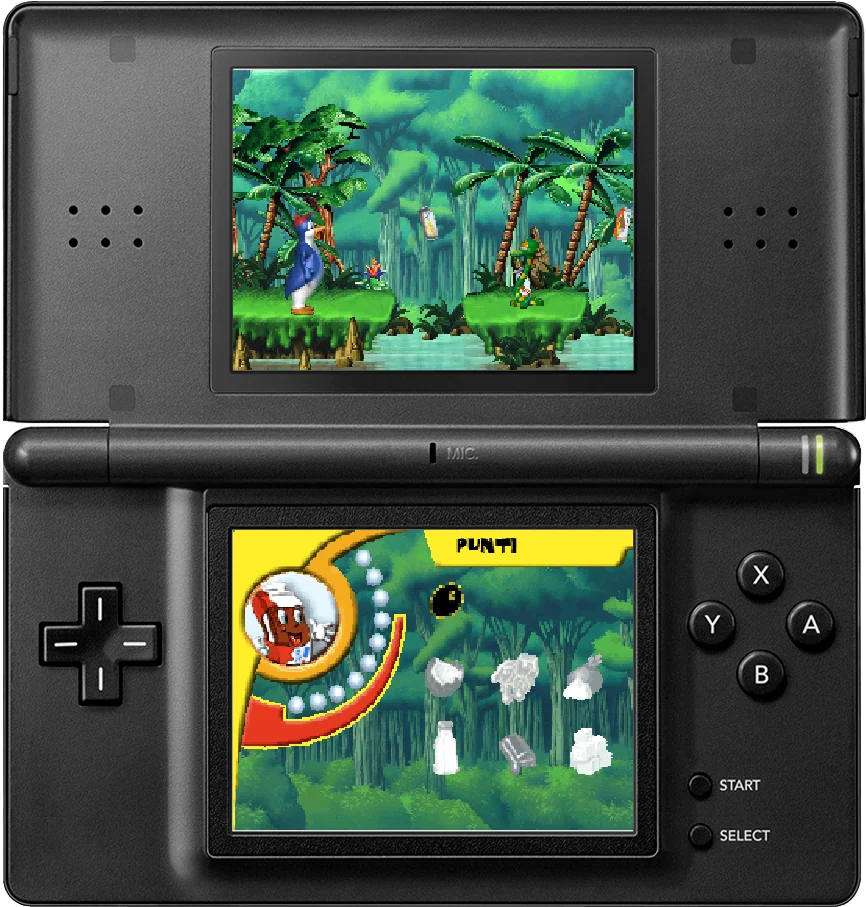
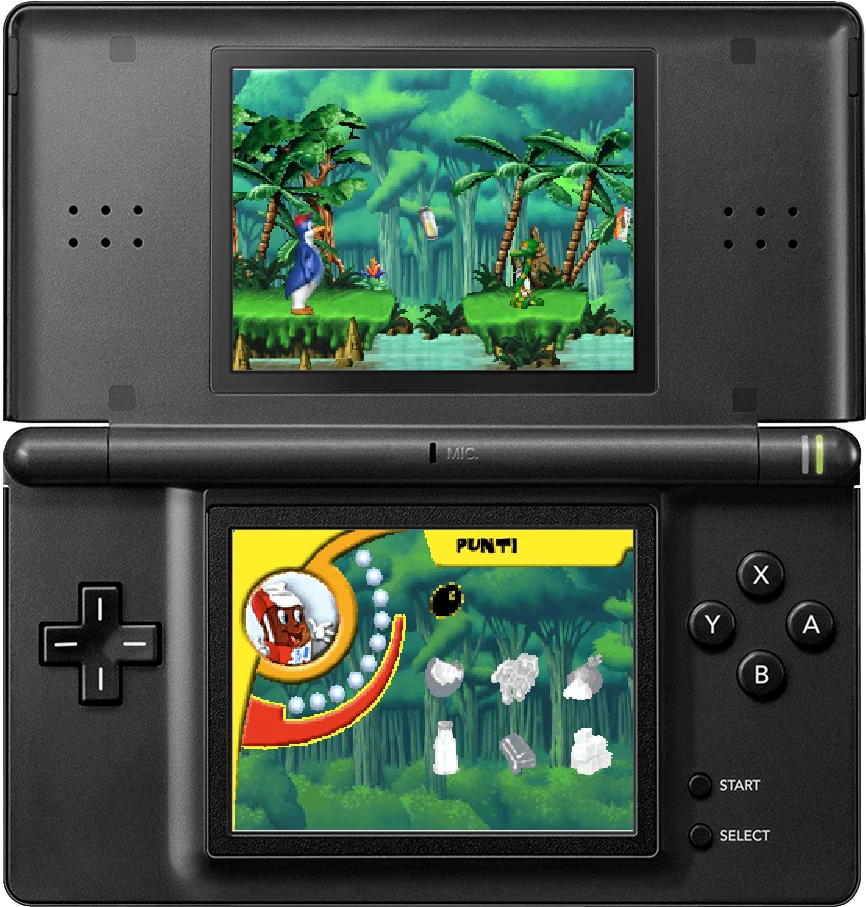
Resample DS artwork with Lanczos for 0.9.1
All artwork downscaled for the DS now uses premultiplied Lanczos
resampling instead of nearest-pixel sampling: bottom-screen HUD and
backdrops, players, enemies, pickups, level scenery, scrolling and fixed
backgrounds, credits and highscore screens. One-bit transparency is
restored at half coverage, and sprite frames are reduced back to the
4/8-bit palette class their old rasters had, so GPU page formats, tile
counts and ROM size stay essentially unchanged.

Also fix asset assembly, which expected 28 conversion steps while the
pipeline runs 29, so a fresh source build stopped before the ROM.
Verifiers that recomputed point sampling now check the new filter, and
the README screenshot is recaptured from the 0.9.1 ROM.

diff --git a/tools/player_scaled_build.py b/tools/player_scaled_build.py
@@ -6,6 +6,7 @@ import hashlib
 import json
 import struct
 import numpy as np
+from PIL import Image
 from tile_storage import packet
 from decoded_assets import DecodedAssets
 
@@ -17,11 +18,34 @@ def raster(rgb,fx,fy,facing):
     x=ceil_div(16*left-25,50);y=ceil_div(16*fy-25,50)
     width=max(1,ceil_div(16*(left+w)-25,50)-x)
     height=max(1,ceil_div(16*(fy+h)-25,50)-y)
+    # Same 8/25 lattice as centered sampling; premultiplied Lanczos replaces the
+    # single source tap and the 1-bit alpha is restored at half coverage.
+    pad=12;rgba=np.zeros((h+2*pad,w+2*pad,4),dtype=np.uint8);inner=rgba[pad:pad+h,pad:pad+w]
+    for channel,shift in enumerate((0,5,10)):inner[...,channel]=((source>>shift)&31)*255//31
+    inner[...,3]=np.where(source&0x8000,255,0)
+    box=((x*25/8)-left+pad,(y*25/8)-fy+pad,((x+width)*25/8)-left+pad,((y+height)*25/8)-fy+pad)
+    a=np.asarray(Image.fromarray(rgba,'RGBA').convert('RGBa').resize((width,height),Image.Resampling.LANCZOS,box=box),dtype=np.float64)
+    c=np.clip(np.rint(a[...,:3]*31/np.maximum(a[...,3:],1)),0,31).astype(np.uint16)
+    pixels=np.where(a[...,3]>=128,c[...,0]|(c[...,1]<<5)|(c[...,2]<<10)|0x8000,0).astype('<u2')
+    # Filtering adds edge colors. Keep the frame (or, for direct-color frames,
+    # each 32-row GPU strip) within the 4/8-bit palette class its
+    # centered-sample raster had, so page formats never grow.
     xs=((2*(x+np.arange(width))+1)*25)//16-left
     ys=((2*(y+np.arange(height))+1)*25)//16-fy
     valid=(ys[:,None]>=0)&(ys[:,None]<h)&(xs[None,:]>=0)&(xs[None,:]<w)
-    pixels=np.where(valid,source[np.clip(ys,0,h-1)[:,None],np.clip(xs,0,w-1)[None,:]],0).astype('<u2')
+    nearest=np.where(valid,source[np.clip(ys,0,h-1)[:,None],np.clip(xs,0,w-1)[None,:]],0)
+    bands=[(0,height)] if len(np.unique(nearest[nearest!=0]))<=255 else [(top,top+32) for top in range(0,height,32)]
+    for top,end in bands:
+        band=pixels[top:end];before=len(np.unique(nearest[top:end][nearest[top:end]!=0]))
+        limit=15 if before<=15 else 255 if before<=255 else None
+        if limit and len(np.unique(band[band!=0]))>limit:band[band!=0]=quantize555(band[band!=0],limit)
     return pixels,x,y
+
+def quantize555(words,count):
+    rgb=np.stack([((words>>shift)&31)*255//31 for shift in (0,5,10)],axis=-1).astype(np.uint8)
+    q=Image.fromarray(rgb.reshape(-1,1,3),'RGB').quantize(colors=count,method=Image.Quantize.MEDIANCUT,dither=Image.Dither.NONE)
+    c=(np.asarray(q.convert('RGB'),dtype=np.uint16).reshape(-1,3)*31+127)//255
+    return c[:,0]|(c[:,1]<<5)|(c[:,2]<<10)|0x8000
 
 def build(decoded,out):
     out.mkdir(parents=True,exist_ok=False)
@@ -48,7 +72,7 @@ def build(decoded,out):
                          'bytes':len(data),'sha256':hashlib.sha256(data).hexdigest(),
                          'max_frame_bytes':max_pixels*2,'source_pixels':source_pixels,
                          'stored_packets':len(lookup),'packet_modes':dict(modes),
-                         'scaling':'Exact uniform8/25centered nearest sampling around animation origin; both facings baked',
+                         'scaling':'Uniform8/25 premultiplied Lanczos around animation origin, 1-bit alpha at half coverage; both facings baked',
                          'color':'Adaptive4/8-bit exact palettes or RGB555; no color quantization'})
     (out/'manifest.json').write_text(json.dumps(manifest,indent=2)+'\n')
     print(json.dumps(manifest))

diff --git a/tools/hud_build.py b/tools/hud_build.py
@@ -5,6 +5,7 @@ full-screen HUD format is not generated.
 """
 from pathlib import Path
 import argparse,json,struct
+import numpy as np
 from PIL import Image
 from decoded_assets import DecodedAssets
 
@@ -32,14 +33,18 @@ def build(decoded,output):
     bottom_data.extend(struct.pack('<'+'H'*len(run),*run));cursor=xx
    bottom_data.extend(struct.pack('<HH',0,0))
   bottom_manifest.append(dict(resource=rid,frame=frame,width=w,height=h,x=left,y=top))
+ def lanczos(im,size,box=None):
+  # Premultiplied Lanczos keeps thin outlines instead of dropping source rows;
+  # the 1-bit patch alpha is restored with a half-coverage cutoff.
+  a=np.asarray(im.convert('RGBa').resize(size,Image.Resampling.LANCZOS,box=box),dtype=np.float64);alpha=a[...,3:]
+  rgb=np.clip(a[...,:3]*255/np.maximum(alpha,1),0,255)
+  return Image.fromarray(np.concatenate((rgb,np.where(alpha>=128,255,0)),axis=2).round().astype('u1'),'RGBA')
  def sample_positioned(im,x,y,scale,origin):
-  # Center sampling on a shared cluster lattice keeps overlapping frame borders aligned.
+  # Filter on a shared cluster lattice keeps overlapping frame borders aligned.
   left=round(x*scale);top=round(y*scale);right=round((x+im.width)*scale);end=round((y+im.height)*scale)
-  out=Image.new('RGBA',(right-left,end-top));ip=im.load();op=out.load()
-  for yy in range(out.height):
-   sy=min(im.height-1,max(0,int((top+yy+.5)/scale)-y))
-   for xx in range(out.width):
-    sx=min(im.width-1,max(0,int((left+xx+.5)/scale)-x));op[xx,yy]=ip[sx,sy]
+  if scale==1:return im,left+origin[0],top+origin[1]
+  pad=4;padded=Image.new('RGBA',(im.width+2*pad,im.height+2*pad));padded.paste(im,(pad,pad))
+  out=lanczos(padded,(right-left,end-top),(left/scale-x+pad,top/scale-y+pad,right/scale-x+pad,end/scale-y+pad))
   return out,left+origin[0],top+origin[1]
  for rid,name in enumerate(names):
   for f in inv[base+name]['frames']:
@@ -60,7 +65,7 @@ def build(decoded,output):
    out,left,top=sample_positioned(im,x,y,scale,origin);bottom_patch(rid,f['index'],out,left,top)
  baseim=assets.image(inv[base+names[0]]['frames'][0])
  # Original PUNTI tab, cropped from the long header. No new text or colors.
- label=baseim.crop((342,0,520,32)).resize((134,24),Image.Resampling.NEAREST)
+ label=lanczos(baseim.crop((342,0,520,32)),(134,24))
  bottom_patch(15,0,label,122,0)
  target=output/'hud_bottom.bin';target.write_bytes(b'KFH2'+struct.pack('<II',len(bottom_records),len(bottom_data)//2)+b''.join(bottom_records)+bottom_data)
  (output/'hud-manifest.json').write_text(json.dumps(dict(bytes=target.stat().st_size,pixel_bytes=len(bottom_data),frames=bottom_manifest),indent=2)+'\n')

diff --git a/tools/verify_highscore_ui.py b/tools/verify_highscore_ui.py
@@ -2,6 +2,7 @@
 from pathlib import Path
 import ctypes as C
 import argparse,json,random,struct,subprocess,tempfile,sys
+import numpy as np
 from PIL import Image
 from unicorn import UC_HOOK_CODE
 from unicorn.x86_const import UC_X86_REG_EAX,UC_X86_REG_ECX,UC_X86_REG_ESP,UC_X86_REG_ESI
@@ -99,13 +100,17 @@ with tempfile.TemporaryDirectory(prefix='kinder-highscore-')as tmp:
    for i,name in enumerate(native.names):
     frames=native.inv[f'animation/interface/{name.lower()}.w01']['frames'];index=4 if i<4 and native.world_for_focus[i]==world else int(i==focus)
     f=frames[index];bg.alpha_composite(Image.open(ROOT/f['png']).convert('RGBA'),(f['x'],f['y']))
+   text=Image.new('RGBA',bg.size);background=np.asarray(bg.convert('RGB').resize((256,192),Image.Resampling.LANCZOS),dtype=np.uint16)
    native.draws.clear();u.mem_write(0x45f660,struct.pack('<I',world));u.reg_write(UC_X86_REG_ESP,0x220000);u.reg_write(UC_X86_REG_ESI,0x45f020);u.emu_start(0x403d2c,0x403deb,count=2000000)
    for command in native.draws:
-    f=native.font[command['frame']];bg.alpha_composite(Image.open(ROOT/f['png']).convert('RGBA'),(command['x'],command['y']))
-   pixels=bg.load();preview=Image.new('RGB',(256,192));pp=preview.load()
+    f=native.font[command['frame']];text.alpha_composite(Image.open(ROOT/f['png']).convert('RGBA'),(command['x'],command['y']))
+   # Lanczos backdrop; runtime glyphs stay on the centered 25/16 sample lattice.
+   pixels=text.load();preview=Image.new('RGB',(256,192));pp=preview.load()
    for y in range(192):
     for x in range(256):
-     r,g,b,_=pixels[((2*x+1)*25)//16,((2*y+1)*25)//16];expected=0x8000|(r>>3)|((g>>3)<<5)|((b>>3)<<10)
+     r,g,b,alpha=pixels[((2*x+1)*25)//16,((2*y+1)*25)//16]
+     if not alpha:r,g,b=map(int,background[y,x])
+     expected=0x8000|(r>>3)|((g>>3)<<5)|((b>>3)<<10)
      actual=framebuffer[y*256+x];assert actual==expected,(world,focus,x,y,hex(actual),hex(expected))
      pp[x,y]=((actual&31)*255//31,((actual>>5)&31)*255//31,((actual>>10)&31)*255//31)
    if focus==-1:preview.save(OUT/f'world{world}-scores.png')

diff --git a/tools/verify_entity_assets.py b/tools/verify_entity_assets.py
@@ -1,9 +1,14 @@
-"""Verify enemy/pickup packets, AOM animation ranges, geometry and map records."""
+"""Verify enemy/pickup packets, AOM animation ranges, geometry and map records.
+
+Raster bounds are derived independently from the original lattice; expected
+pixels come from the shared offline Lanczos raster filter.
+"""
 from pathlib import Path
 import argparse,ctypes as C,hashlib,json,struct,subprocess,tempfile
 import numpy as np
 from decoded_assets import DecodedAssets
 from native_resources import asset_source
+from player_scaled_build import raster
 
 ROOT=Path(__file__).resolve().parents[1]
 RANGES=('Left','Right','Up','Do','LeftUp','LeftDo','RightUp','RightDo','IdleLeft','IdleRight','IdleUp','IdleDo','IdleLeftUp','IdleLeftDo','IdleRightUp','IdleRightDo','Attack','Freeze','KO')
@@ -57,10 +62,7 @@ def main():
                         if not len(ix):ix=np.array([np.searchsorted(centers,left)])
                         if not len(iy):iy=np.array([np.searchsorted(centers,fy)])
                         assert(pw,ph,px,py)==(len(ix),len(iy),lattice[ix[0]],lattice[iy[0]])
-                        sx=centers[ix]-left;sy=centers[iy]-fy
-                        valid=(sx[None,:]>=0)&(sx[None,:]<w)&(sy[:,None]>=0)&(sy[:,None]<h)
-                        image=rgb[:,::-1] if mirror else rgb
-                        expected=np.where(valid,image[np.clip(sy,0,h-1)[:,None],np.clip(sx,0,w-1)[None,:]],0)
+                        expected=raster(rgb,fx-reference if mirror else fx,fy,not mirror)[0]
                         buffer=C.create_string_buffer(data[base+off:base+off+bytes_]);guard=np.full(pw*ph+32,0x1357,dtype='<u2')
                         assert codec.decode(buffer,bytes_,guard[16:].ctypes.data,pw*ph)
                         assert np.all(guard[:16]==0x1357)and np.all(guard[-16:]==0x1357)

diff --git a/tools/verify_character_assets.py b/tools/verify_character_assets.py
@@ -1,8 +1,9 @@
 """Check regenerated character/projectile data against original decoded artwork.
 
-Player packets are expanded by the runtime C codec. Expected sprite pixels and
-alignment are sampled from the original coordinate lattice, without a software
-scene renderer or a rendered framebuffer reference.
+Player packets are expanded by the runtime C codec. Sprite alignment and raster
+bounds are derived independently from the original coordinate lattice; expected
+pixels come from the shared offline Lanczos raster filter. No software scene
+renderer or rendered framebuffer reference is used.
 """
 from pathlib import Path
 import argparse
@@ -14,6 +15,7 @@ import subprocess
 import tempfile
 import numpy as np
 from decoded_assets import DecodedAssets
+from player_scaled_build import raster
 
 ROOT=Path(__file__).resolve().parents[1]
 
@@ -56,10 +58,7 @@ def main():
                     if not len(ix):ix=np.array([np.searchsorted(centers,left)])
                     if not len(iy):iy=np.array([np.searchsorted(centers,frame['y'])])
                     assert (pw,ph,px,py)==(len(ix),len(iy),lattice[ix[0]],lattice[iy[0]])
-                    sx=centers[ix]-left;sy=centers[iy]-frame['y']
-                    valid=(sx[None,:]>=0)&(sx[None,:]<w)&(sy[:,None]>=0)&(sy[:,None]<h)
-                    source_pixels=image if facing else image[:,::-1]
-                    expected=np.where(valid,source_pixels[np.clip(sy,0,h-1)[:,None],np.clip(sx,0,w-1)[None,:]],0)
+                    expected=raster(image,frame['x'],frame['y'],facing)[0]
                     packet=C.create_string_buffer(pack[payload+offset:payload+offset+size])
                     guard=np.full(pw*ph+32,0x1357,dtype='<u2')
                     assert codec.decode(packet,size,guard[16:].ctypes.data,pw*ph)

diff --git a/tools/background_scaled_build.py b/tools/background_scaled_build.py
@@ -1,4 +1,4 @@
-"""KFB4: offline uniform8/25 backgrounds with compressed256-pixel RGB555 rows."""
+"""KFB4: offline uniform8/25 Lanczos backgrounds with compressed256-pixel RGB555 rows."""
 from pathlib import Path
 import argparse,json,struct,numpy as np
 from decoded_assets import DecodedAssets
@@ -9,7 +9,7 @@ def build(decoded,out):
  for a in assets.inventory.values():
   if not a['source'].lower().startswith('maps/') or len(a.get('frames',[]))<5:continue
   im=assets.image(a['frames'][4]);assert im.width==800 and im.height>=600
-  rgb=np.asarray(im.crop((0,0,800,600)).resize((256,192),Image.Resampling.NEAREST),dtype=np.uint16)
+  rgb=np.asarray(im.crop((0,0,800,600)).resize((256,192),Image.Resampling.LANCZOS),dtype=np.uint16)
   assert np.all(rgb[:,:,3]==255)
   pixels=((rgb[:,:,0]>>3)|((rgb[:,:,1]>>3)<<5)|((rgb[:,:,2]>>3)<<10)|0x8000).astype('<u2')
   directory=[];payload=bytearray()
@@ -21,7 +21,7 @@ def build(decoded,out):
   for value in pixels.reshape(-1):checksum=((checksum^int(value))*16777619)&0xffffffff
   for _ in range(64*256):checksum=(checksum*16777619)&0xffffffff
   hashes[name]=checksum
-  rows.append({'source':a['source'],'file':name,'bytes':len(data),'format':'KFB4','cache_pixels':49152,'projection':'uniform8/25 centered nearest; half-speed native camera origin rounded once to DS pixels'})
+  rows.append({'source':a['source'],'file':name,'bytes':len(data),'format':'KFB4','cache_pixels':49152,'projection':'uniform8/25 Lanczos; half-speed native camera origin rounded once to DS pixels'})
  (out/'background-vram-hashes.json').write_text(json.dumps(hashes,indent=2)+'\n')
  (out/'background-manifest.json').write_text(json.dumps(rows,indent=2)+'\n');print(json.dumps({'files':len(rows),'bytes':sum(x['bytes']for x in rows)}))
 def main():

diff --git a/tools/credits_build.py b/tools/credits_build.py
@@ -1,4 +1,4 @@
-"""Pack all four original credit pages with exact centered nearest sampling.
+"""Pack all four original credit pages, Lanczos-resampled to the DS screen.
 256x192 preserves original800x600 proportions. No generated/recreated artwork.
 """
 from pathlib import Path
@@ -8,10 +8,7 @@ from PIL import Image
 parser=argparse.ArgumentParser(description=__doc__);parser.add_argument('--assets',type=Path,required=True);parser.add_argument('--output',type=Path,required=True);args=parser.parse_args();assets=DecodedAssets(args.assets);inventory=assets.inventory;out=args.output;out.mkdir(parents=True,exist_ok=False);records=[]
 for page in range(4):
  item=inventory[f'pics/credit{page+1}.bmp'];image=assets.image(item,'RGB');assert image.size==(800,600)
- values=[]
- for y in range(192):
-  for x in range(256):
-   r,g,b=image.getpixel((((2*x+1)*25)//16,((2*y+1)*25)//16));values.append((r>>3)|((g>>3)<<5)|((b>>3)<<10)|0x8000)
+ values=[(r>>3)|((g>>3)<<5)|((b>>3)<<10)|0x8000 for r,g,b in image.resize((256,192),Image.Resampling.LANCZOS).get_flattened_data()]
  data=struct.pack('<4sHH',b'KFC1',256,192)+struct.pack('<49152H',*values);path=out/f'{page}.bin';path.write_bytes(data)
  records.append({'page':page,'original':item['source'],'original_sha256':item['sha256'],'bytes':len(data),'sha256':hashlib.sha256(data).hexdigest()})
-(out/'credits-manifest.json').write_text(json.dumps({'pages':records,'sampling':'centered nearest25/16;256x192;RGB555'},indent=2)+'\n');print(json.dumps({'pages':4,'packed_bytes':sum(v['bytes']for v in records)}))
+(out/'credits-manifest.json').write_text(json.dumps({'pages':records,'sampling':'Lanczos;256x192;RGB555'},indent=2)+'\n');print(json.dumps({'pages':4,'packed_bytes':sum(v['bytes']for v in records)}))

diff --git a/tools/compile_scenery_tiles.py b/tools/compile_scenery_tiles.py
@@ -26,7 +26,6 @@ class Compiler:
   metadata=json.loads((self.maps/name/'00.json').read_text());data=(self.maps/name/'00.tiles.bin').read_bytes()
   w,h=metadata['width_cells'],metadata['height_cells'];n=w*h
   dw=ceildiv(w*32*16-25,50);dh=ceildiv(h*32*16-25,50);gw=ceildiv(dw,16);gh=ceildiv(dh,16);assert gw*gh<65536
-  xs=((2*np.arange(dw)+1)*25)//16;ys=((2*np.arange(dh)+1)*25)//16
   stem=Path(name).stem
   if stem.lower().endswith('e'):stem=stem[:-1]
   sheet=self.assets.inventory['maps/'+stem.lower()+'.w01']['frames']
@@ -35,8 +34,12 @@ class Compiler:
    nonlocal canvas,dirty
    if not dirty:return
    if canvas.getchannel('A').getbbox()is not None:
-    rgba=np.asarray(canvas)[ys[:,None],xs[None,:]].astype(np.uint16)
-    sampled=np.where(rgba[:,:,3],0x8000|(rgba[:,:,0]>>3)|((rgba[:,:,1]>>3)<<5)|((rgba[:,:,2]>>3)<<10),0).astype('<u2')
+    # Premultiplied Lanczos over the whole pass on the 8/25 lattice, so cell
+    # borders stay seamless; 1-bit alpha is restored at half coverage.
+    source=Image.new('RGBA',(ceildiv(dw*25,8)+1,ceildiv(dh*25,8)+1));source.paste(canvas,(0,0))
+    a=np.asarray(source.convert('RGBa').resize((dw,dh),Image.Resampling.LANCZOS,box=(0,0,dw*25/8,dh*25/8)),dtype=np.float64)
+    c=np.clip(np.rint(a[...,:3]*31/np.maximum(a[...,3:],1)),0,31).astype(np.uint16)
+    sampled=np.where(a[...,3]>=128,0x8000|c[...,0]|(c[...,1]<<5)|(c[...,2]<<10),0).astype('<u2')
     padded=np.zeros((gh*16,gw*16),dtype='<u2');padded[:dh,:dw]=sampled
     grid=padded.reshape(gh,16,gw,16).transpose(0,2,1,3);cells=[]
     for y,x in zip(*np.nonzero(np.any(grid,axis=(2,3)))):cells.append((int(y*gw+x),grid[y,x].reshape(256).copy()))

diff --git a/tools/verify_scene_assets.py b/tools/verify_scene_assets.py
@@ -2,6 +2,7 @@
 from pathlib import Path
 import argparse,ctypes as C,hashlib,json,struct,subprocess,tempfile
 import numpy as np
+from PIL import Image
 from decoded_assets import DecodedAssets
 from native_resources import asset_source
 
@@ -51,10 +52,9 @@ def main():
   source.write_text('#include "tile_codec.h"\nint decode(const uint8_t*p,size_t n,uint8_t*d,unsigned count){return tile_decode_lz(p,n,d,count);}\n')
   subprocess.run(['cc','-dynamiclib','-O2','-Wall','-Wextra','-Werror','-I'+str(ROOT/'ds/source'),str(source),'-o',str(library)],check=True)
   codec=C.CDLL(str(library));codec.decode.argtypes=[C.c_void_p,C.c_size_t,C.c_void_p,C.c_uint];codec.decode.restype=C.c_int
-  axis=((np.arange(256)*2+1)*25)//16;vertical=((np.arange(192)*2+1)*25)//16
   for key in sorted(keys):
    image=np.asarray(assets.image(assets.inventory['maps/'+key+'.w01']['frames'][4]));assert np.all(image[:600,:,3]==255)
-   sampled=image[vertical[:,None],axis[None,:]].astype(np.uint16)
+   sampled=np.asarray(Image.fromarray(image[:600]).resize((256,192),Image.Resampling.LANCZOS),dtype=np.uint16)
    expected=(0x8000|(sampled[:,:,0]>>3)|((sampled[:,:,1]>>3)<<5)|((sampled[:,:,2]>>3)<<10)).astype('<u2')
    assert(a.scenes/(key+'.bg')).read_bytes()==expected.tobytes()
    blob=(a.backgrounds/(key+'.par')).read_bytes();assert struct.unpack_from('<4sHH',blob)==(b'KFB4',256,192)

diff --git a/tools/highscore_build.py b/tools/highscore_build.py
@@ -55,10 +55,10 @@ def build(decoded,game,output):
    for i,name in enumerate(names):
     frames=inv[f'animation/interface/{name.lower()}.w01']['frames'];index=4 if i<4 and world_for_focus[i]==world else int(i==focus)
     f=frames[index];screen.alpha_composite(assets.image(f),(f['x'],f['y']))
-   sp=screen.load();raw=bytearray();preview=Image.new('RGB',(256,192));pp=preview.load()
+   sp=screen.convert('RGB').resize((256,192),Image.Resampling.LANCZOS).load();raw=bytearray();preview=Image.new('RGB',(256,192));pp=preview.load()
    for y in range(192):
     for x in range(256):
-     r,g,b,_=sp[((2*x+1)*25)//16,((2*y+1)*25)//16];v=0x8000|(r>>3)|((g>>3)<<5)|((b>>3)<<10);raw+=struct.pack('<H',v);pp[x,y]=((v&31)*255//31,((v>>5)&31)*255//31,((v>>10)&31)*255//31)
+     r,g,b=sp[x,y];v=0x8000|(r>>3)|((g>>3)<<5)|((b>>3)<<10);raw+=struct.pack('<H',v);pp[x,y]=((v&31)*255//31,((v>>5)&31)*255//31,((v>>10)&31)*255//31)
    filename=f'world{world}_focus{focus+1}.bin';(OUT/filename).write_bytes(raw);screens.append({'world':world,'focus':focus,'file':filename,'sha256':hashlib.sha256(raw).hexdigest()})
    if focus==-1:preview.save(RESEARCH/f'world{world}-background.png')
  keyboard0=list(pe.get_data(0x4550e8-0x400000,87));keyboard1=list(pe.get_data(0x455140-0x400000,87))

diff --git a/tools/hud_background_build.py b/tools/hud_background_build.py
@@ -10,7 +10,7 @@ def build(decoded,out):
  out.mkdir(parents=True,exist_ok=False);previews=out;assets=DecodedAssets(decoded);manifest=[]
  for name,asset in WORLDS:
   source=assets.inventory[f'maps/{asset.lower()}.w01']['frames'][4]
-  rgb=np.asarray(assets.image(source,'RGB').crop((0,0,800,600)).resize((256,192),Image.Resampling.NEAREST),dtype=np.uint16)*3//4
+  rgb=np.asarray(assets.image(source,'RGB').crop((0,0,800,600)).resize((256,192),Image.Resampling.LANCZOS),dtype=np.uint16)*3//4
   words=(0x8000|(rgb[:,:,0]>>3)|((rgb[:,:,1]>>3)<<5)|((rgb[:,:,2]>>3)<<10)).astype('<u2');encoded,bits=packet(words.tobytes())
   data=struct.pack('<4sHHI',b'KHB1',256,192,len(encoded))+encoded;path=out/(name+'.bin');path.write_bytes(data)
   display=np.stack(((words&31)*255//31,((words>>5)&31)*255//31,((words>>10)&31)*255//31),axis=2).astype('u1');Image.fromarray(display).save(previews/(name+'-background.png'))

diff --git a/tools/assemble_assets.py b/tools/assemble_assets.py
@@ -13,7 +13,7 @@ def assemble(generated,project,icon=None):
  generated=generated.resolve();project=project.resolve()
  icon=Path(icon).resolve() if icon is not None else project/'icon.png'
  manifest=json.loads((generated/'generation-manifest.json').read_text())
- assert manifest['through']=='scenery' and len(manifest['steps'])==28
+ assert manifest['through']=='scenery' and len(manifest['steps'])==29
  assert all(s['returncode']==0 for s in manifest['steps'])
  assert(project/'Makefile').is_file()and(project/'source').is_dir(),'Expected DS source project'
  assert not(project/'assets').exists()and not(project/'nitrofs').exists(),'Asset folders already exist'
